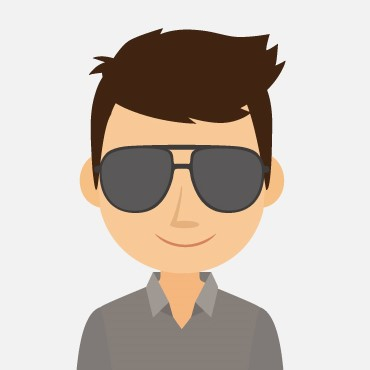
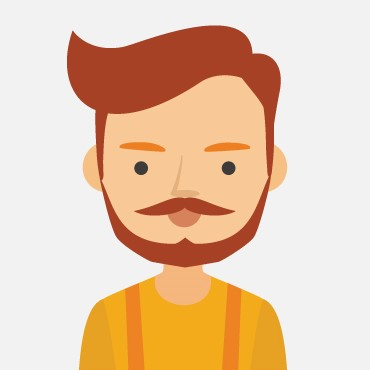
inserita milestone 3

diff --git a/index.html b/index.html
@@ -19,8 +19,8 @@
 
                 <div class="avatar">
                     <div class="avatar_left">
-                        <img id="avatar" src="img/avatar_io.jpg" alt="">
-                        <h3>Nome utente</h3>
+                        <img id="avatar" :src="imgPath + user.avatar" alt="">
+                        <h3> {{user.name}} </h3>
                     </div>
                     <div class="avatar_right">
                         <i class="fas fa-circle-notch"></i>
@@ -40,14 +40,15 @@
                 <div class="search">
                     <div class="wrapper">
                         <i class="fas fa-search"></i>
-                        <input type="text" name="search" id="search" placeholder="Cerca o inizia una nuova chat">    
+                        <input type="text" name="search" id="search" placeholder="Cerca o inizia una nuova chat" v-model="keyword">    
                     </div>
                 </div>
 
             </div>
             
             <div class="users_bottom">
-                <div class="user" v-for="(contact, index) in contacts">
+                <div class="user" v-for="(contact, index) in contacts" :class="[(counter == index) ? 'active' : null, 
+                (keyword.charAt(0) == contacts[index].name.charAt(0) || keyword == '') ?  'visible' : 'notVisible' ]" @click="counter = index">
                     <img :src="imgPath + contacts[index].avatar" alt="">
                     <p>{{ contacts[index].name }}</p>
                 </div>
@@ -58,9 +59,9 @@
         <div class="chat_container">
             <div class="chat_top">
                 <div class="chat_user_left">
-                    <img id="avatar" src="img/avatar_1.jpg" alt="">
+                    <img id="avatar" :src="imgPath + contacts[counter].avatar" alt="">
                     <div class="chat_user_left_text">
-                        <h3>Nome utente</h3>
+                        <h3>{{ contacts[counter].name }}</h3>
                         <p style="color: grey">Ultimo accesso oggi alle</p>
                     </div>  
                 </div>
@@ -72,19 +73,13 @@
             </div>
 
             <div class="chat_middle">
-
-                <div class="message_sent"  v-for="(message, index) in contacts[0].messages" v-if="contacts[0].messages[index].status == 'sent' ">
-                    {{ contacts[0].messages[index].text }}
+                <div class="message">
+                    <div  v-for="(message, index) in contacts[counter].messages"  
+                    :class="[(contacts[counter].messages[index].status == 'sent') ? 'message_sent' : 'message_received' ]">
+                    {{ contacts[counter].messages[index].text }}
+                    </div>
                 </div>
-        
-                <div class="message_received" v-for="(message, index) in contacts[0].messages" v-if="contacts[0].messages[index].status == 'received' ">
-                    {{ contacts[0].messages[index].text }}
-                </div>
-
-                <!-- <div :class="messageClass" v-for="(message, index) in contacts[0].messages"  
-                v-if="contacts[0].messages[index].status == 'sent' ? messageClass='message_sent' : messageClass='message_received' ">
-                    {{ contacts[0].messages[index].text }}
-                </div> -->
+                
                
             </div>
 

diff --git a/css/style.css b/css/style.css
@@ -12,14 +12,17 @@ body {
 
 .container {
     width: 80%;
+    min-width: 750px;
     height: 96vh;
     margin: 2vh auto;
     background-color: white;
+    box-shadow: rgba(0, 0, 0, 0.25) 0px 54px 55px, rgba(0, 0, 0, 0.12) 0px -12px 30px, rgba(0, 0, 0, 0.12) 0px 4px 6px, rgba(0, 0, 0, 0.17) 0px 12px 13px, rgba(0, 0, 0, 0.09) 0px -3px 5px;
 }
 
 /* impostazioni users */
 .users_container {
     width: 35%;
+    min-width: 260px;
     height: 100%;
     float: left;
 }
@@ -38,7 +41,6 @@ body {
     display: flex;
     justify-content: space-between;
     align-items: center;
-    min-width: 240px;
     background-color: #eaeaea;
 }
 
@@ -110,18 +112,32 @@ body {
 
 .users_container .users_bottom .user  {
     display: flex;
-    background-color: white;
     padding: 10px;
     border-bottom: 1px solid #eaeaea;
 }
 
 .users_bottom .user:hover {
+    background-color: #eaeaea63;
+}
+.user.active {
     background-color: #eaeaea;
+}
+.user.active:hover {
+    background-color: #eaeaea;
+}
+
+.users_container .users_bottom .user.notVisible {
+    display: none;
+}
+
+.users_container .users_bottom .user.visible {
+    display: flex;
 }
 
 /* impostazioni chat */
 .chat_container {
     width: 65%;
+    min-width: 420px;
     height: 100%;
     float: left;
 }
@@ -160,8 +176,11 @@ body {
     background-position: center;
     padding: 40px 60px;
     overflow-y: scroll;
-    display: flex;
-    flex-direction: column;
+    min-height: 300px;
+}
+
+.message {
+    width: 100%;
 }
 
 .message_sent {
@@ -169,12 +188,14 @@ body {
     width: 300px;
     height: 60px;
     padding: 0 20px;
-    margin: 10px 0;
+    margin: 10px 0 10px 100px;
     background: #d5f9ba;
     border-radius: 10px;
-    align-self: flex-end;
+    float: right;
     text-align: left;
-    line-height: 60px;
+    display: flex;
+    flex-direction: column;
+    justify-content: center;
 }
 .message_sent:after
 {
@@ -200,7 +221,9 @@ body {
     border-radius: 10px;
     align-self: flex-start;
     text-align: left;
-    line-height: 60px;
+    display: flex;
+    flex-direction: column;
+    justify-content: center;
 }
 .message_received:after {
     content: '';
@@ -236,3 +259,19 @@ body {
     border: 1px solid white;
 }
 
+
+@media screen and (max-width: 800px) {
+    .container {
+        min-width: 90%;
+    }
+
+    .users_container {
+      display: none;
+    }
+
+    .chat_container {
+        width: 100%;
+    }
+  }
+
+    

diff --git a/js/master.js b/js/master.js
@@ -3,7 +3,10 @@ var root = new Vue ({
 
     data: {
         imgPath: "img/avatar",
-        messageClass: "",
+        user: {
+            name: "Angelo Lama",
+            avatar: "_io.jpg"
+        },
         contacts: [
             {
                 name: 'Michele',
@@ -89,15 +92,32 @@ var root = new Vue ({
                 ],
             },
         ],
-        newMessage:"",    
+        newMessage:"",
+        counter: 0,
+        keyword:"",
+        // classVisible: "",
+           
     },
 
     methods: {
         sendMessage() {
-            this.contacts[0].messages.push({data:"", text: this.newMessage, status: "sent"});
+            this.contacts[this.counter].messages.push({data:"", text: this.newMessage, status: "sent"});
             this.newMessage="";
+            setTimeout(()=>{ 
+                this.contacts[this.counter].messages.push({data:"", text: "Ok", status: "received"}); 
+            }, 1000);
         },
-        
+        // searchContact() {
+        //     for (let i=0; i<this.contacts.length; i++) {
+        //         if (this.keyword == this.contacts[i].name || this.keyword == '') {
+        //             this.classVisible='visible';
+        //         } else {
+        //             this.classVisible='notVisible';
+        //         }
+        // //     }
+
+        // }
+
     },
 
 
